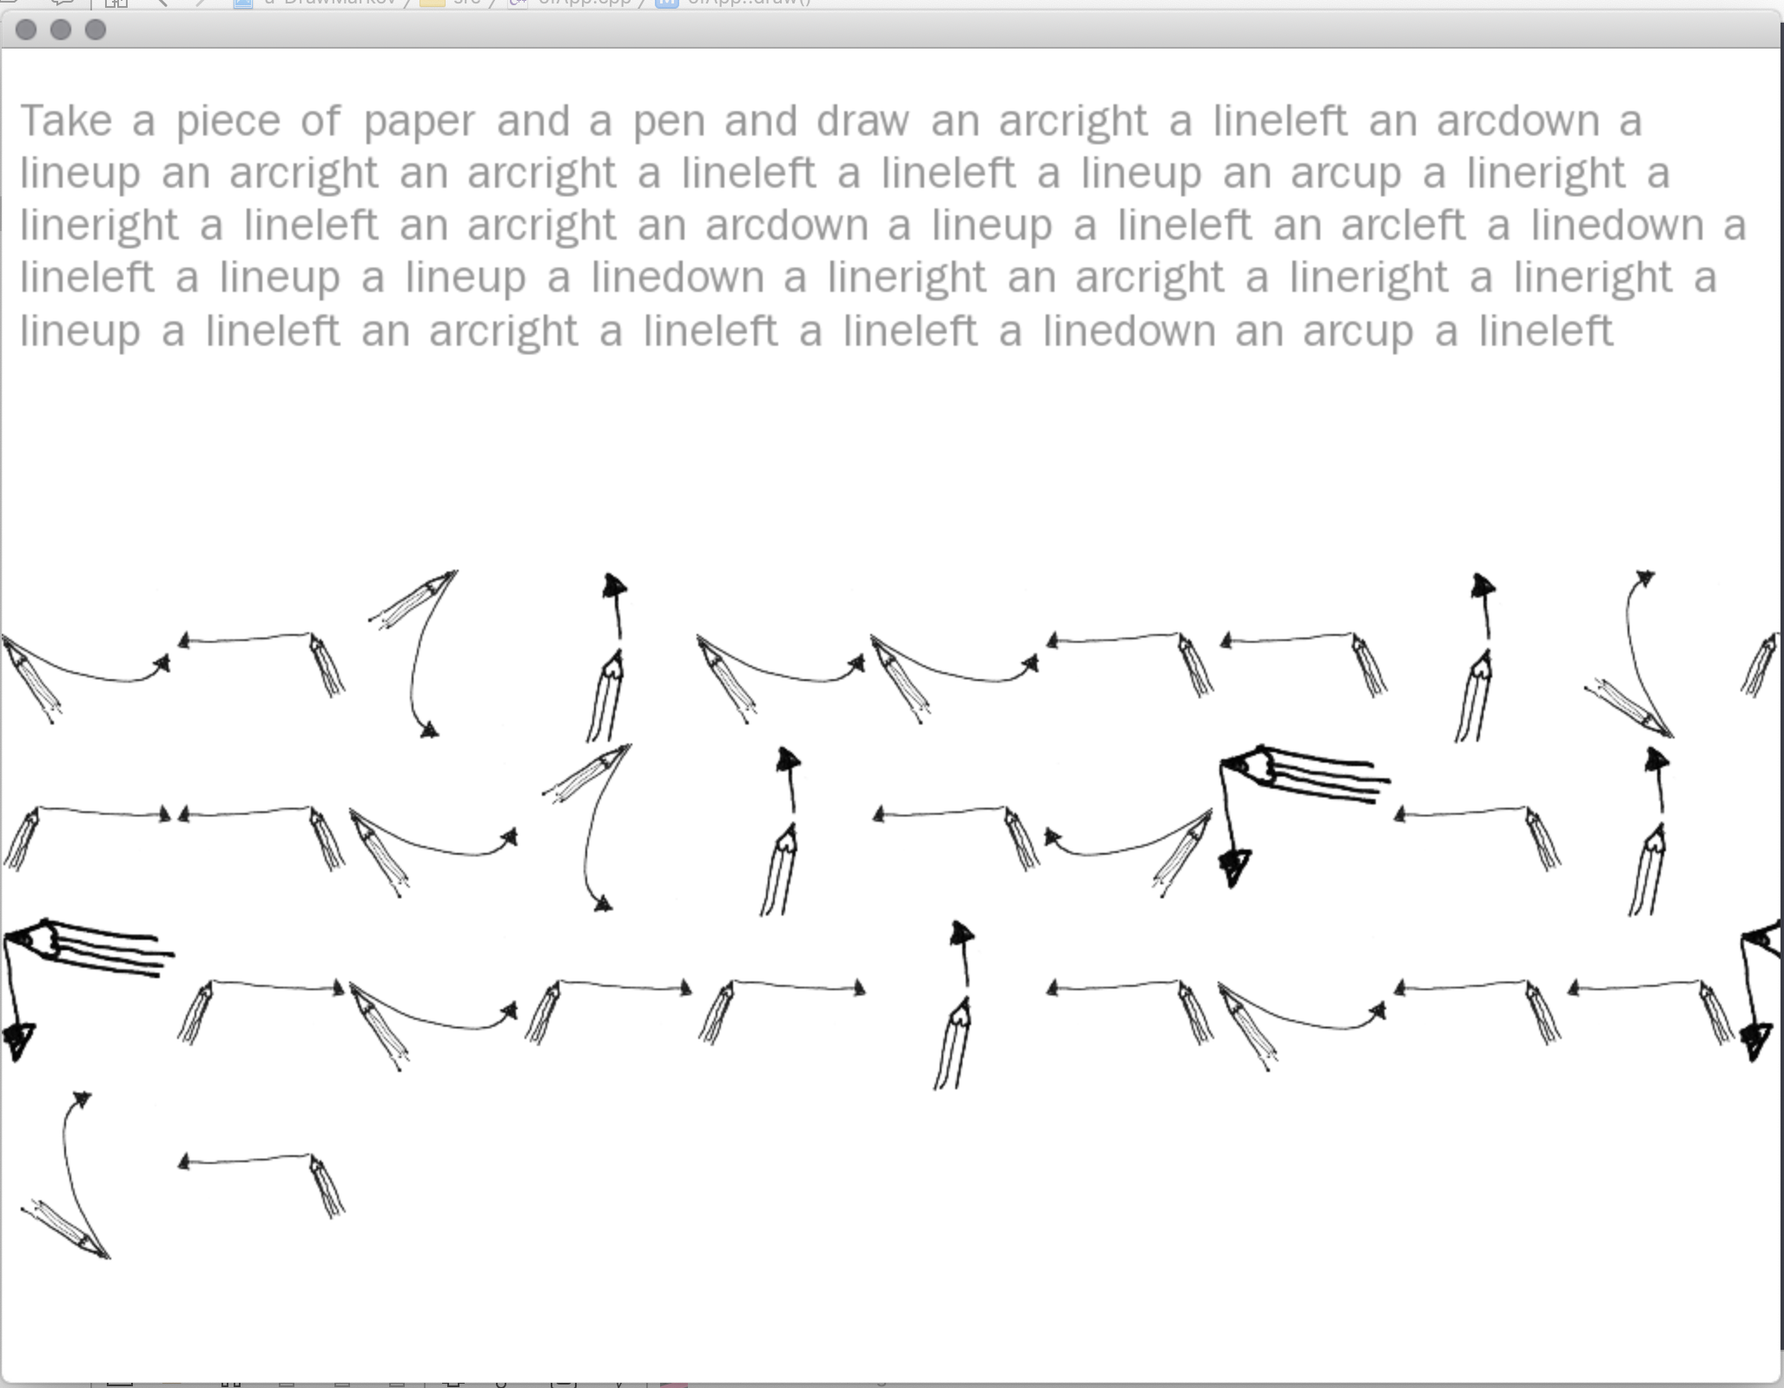
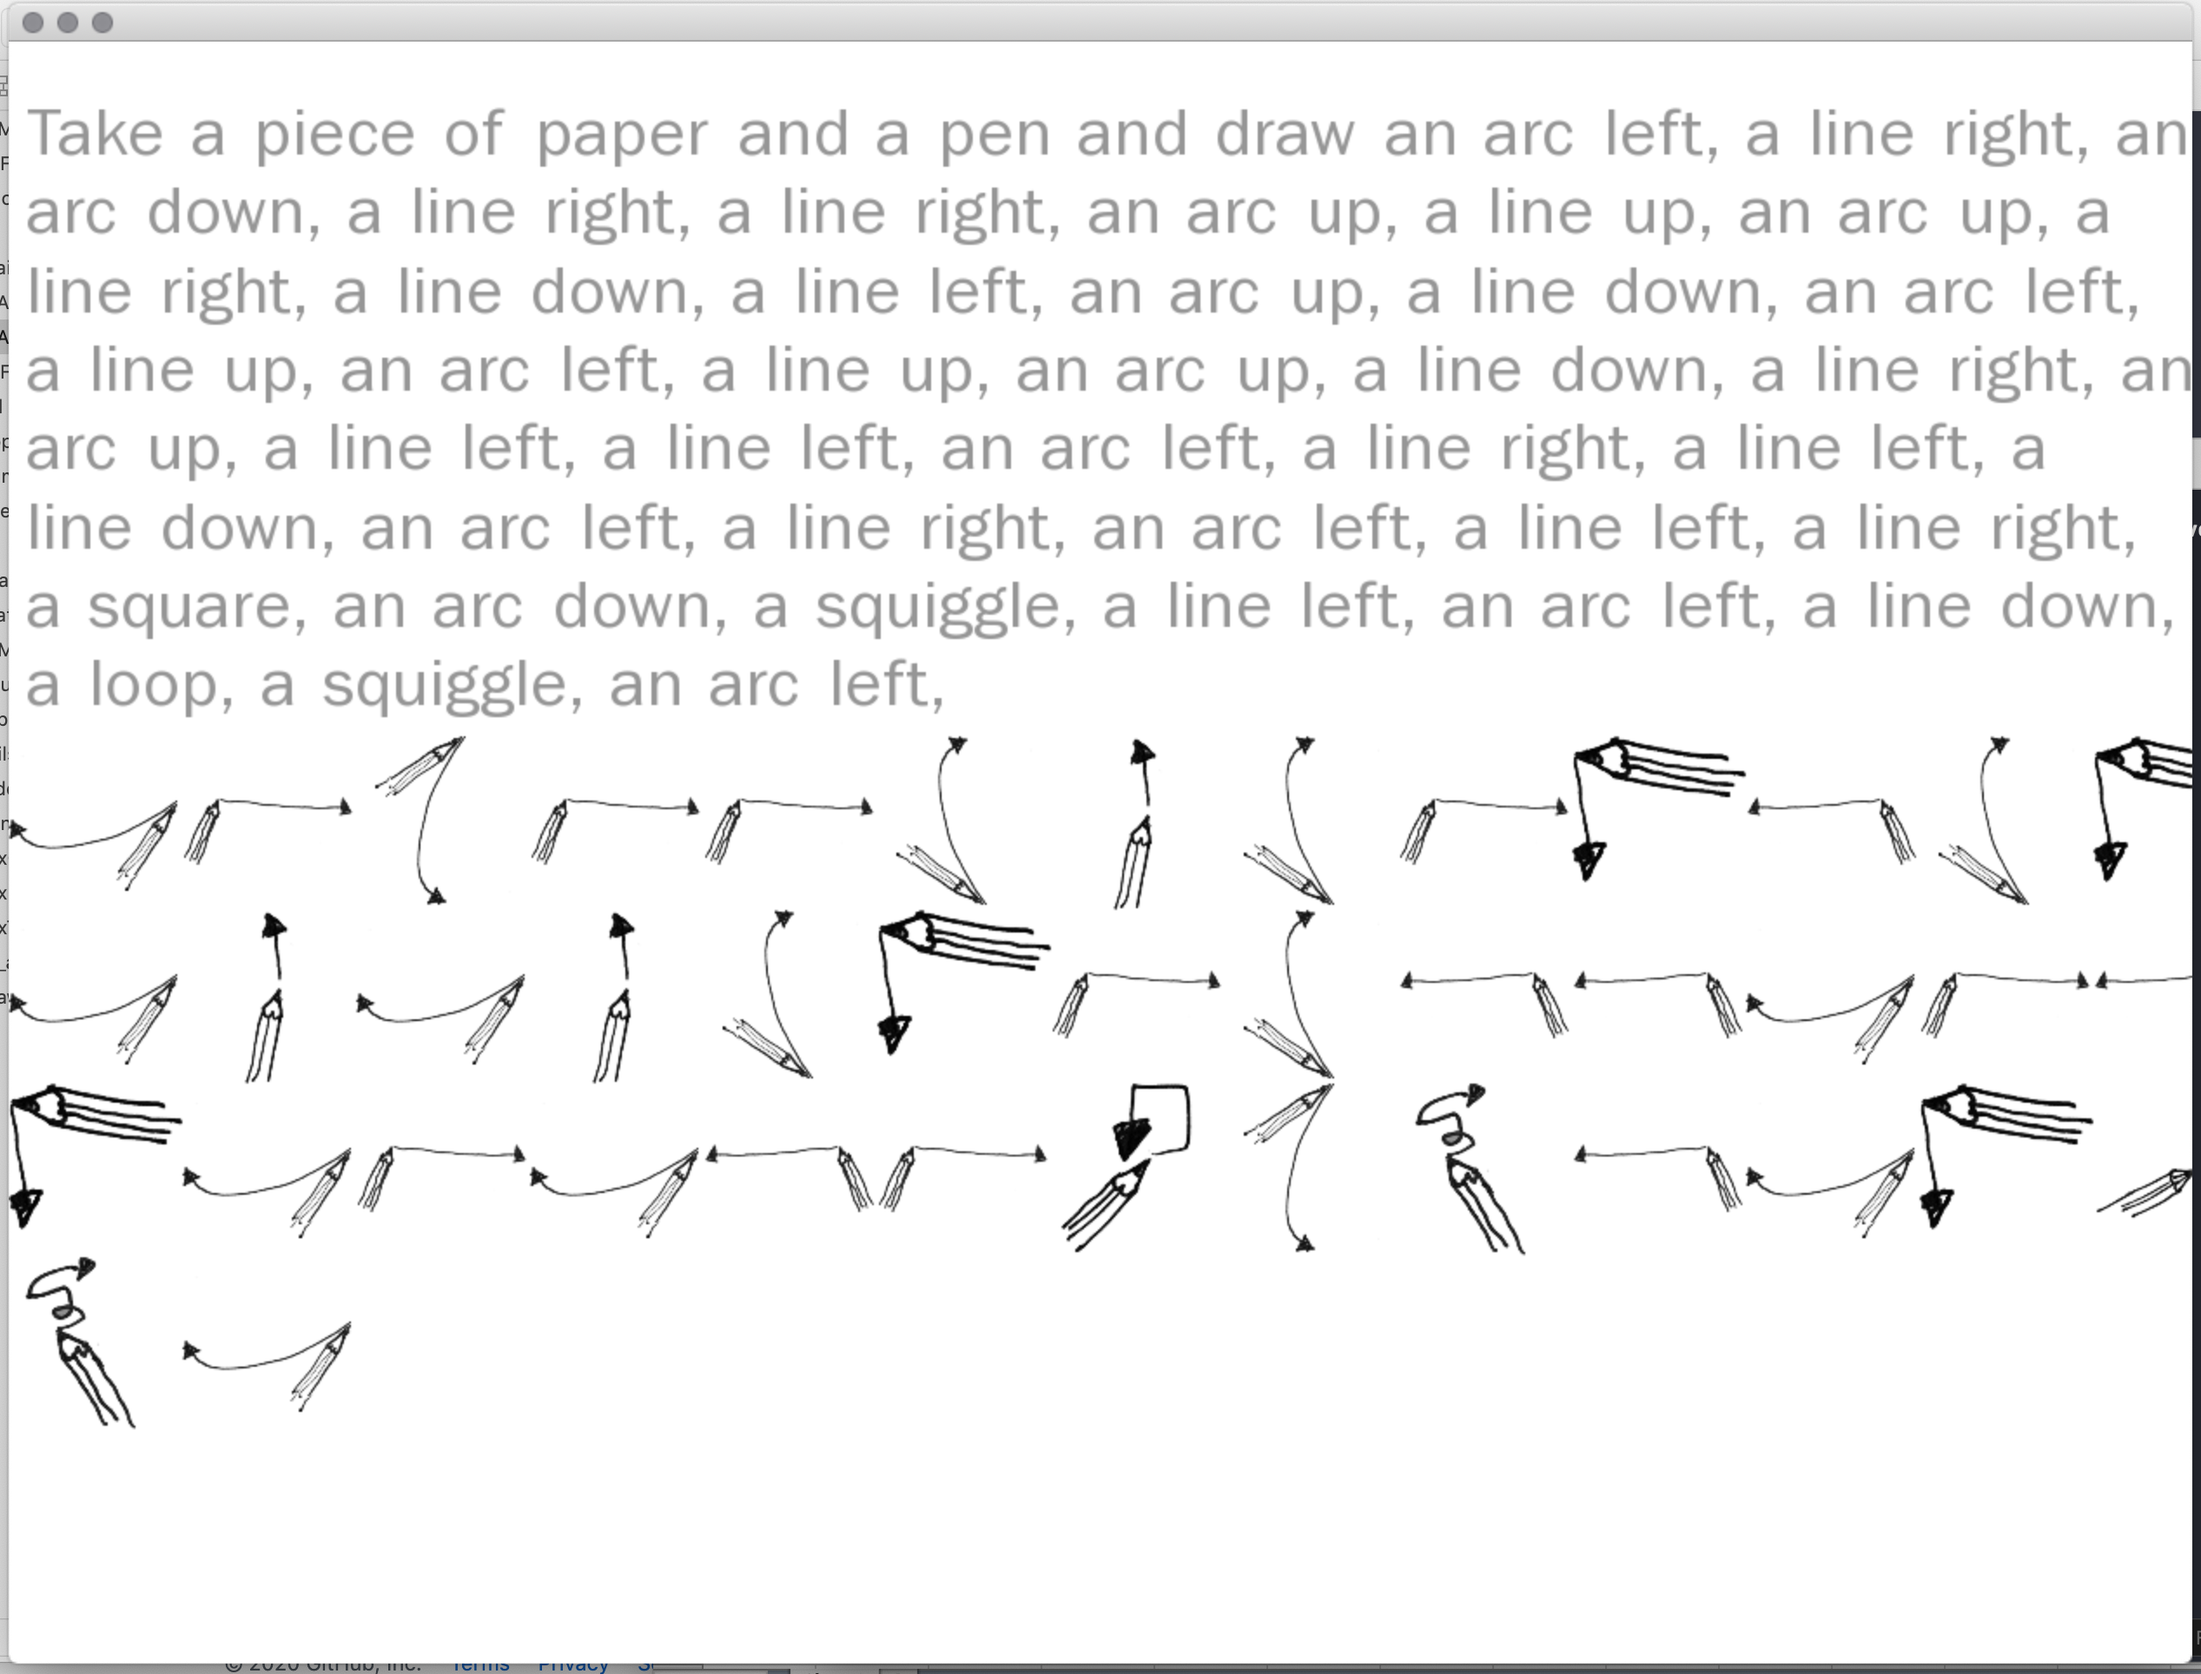
updates to include 12 x 12 matrix

diff --git a/src/ofApp.h b/src/ofApp.h
@@ -41,20 +41,38 @@ public:
             case 5:
                 markType = "an arc down,";
                 markIcon.load("images/arcdown.png");
-                
                 break;
                 
             case 6:
                 markType = "an arc left,";
                 markIcon.load("images/arcleft.png");
-                
                 break;
                 
             case 7:
                 markType = "an arc right,";
                 markIcon.load("images/arcright.png");
-                
                 break;
+                
+            case 8:
+                markType = "a circle,";
+                markIcon.load("images/circle.png");
+                break;
+                
+            case 9:
+                markType = "a square,";
+                markIcon.load("images/square.png");
+                break;
+                
+            case 10:
+                markType = "a loop,";
+                markIcon.load("images/loop.png");
+                break;
+                
+            case 11:
+                markType = "a squiggle,";
+                markIcon.load("images/squiggle.png");
+                break;
+                
                 
             default:
                 break;

diff --git a/src/ofApp.cpp b/src/ofApp.cpp
@@ -16,7 +16,7 @@ void ofApp::setup(){
     instructionText.init("frabk.ttf", 30);
     instructionText.wrapTextX(ofGetWidth());
     ofBackground(ofColor::white);
-    
+   
     reset();
 }
 
@@ -87,8 +87,8 @@ void ofApp::addDrawingStep(){
     markov.update();
     Mark newMark(markov.getState());
     marks.push_back(newMark);
-    
     string speaker = "Samantha";
+    
     string content = newMark.getMarkType() ;
     string cmd = "say " + content + " -v " + speaker;
     system(cmd.c_str());

diff --git a/README.md b/README.md
@@ -1,7 +1,12 @@
 # u-DrawMarkov
 markov chain drawing sketch in openFrameworks
 
-with 8 x 8 matrix for drawing lines and arcs
+with 12 x 12 matrix for drawing four orientations of lines and arcs plus squares, circles, loops and squiggles.
+
+with Mac osX speech output announcing each new drawing step.
+
+includes spreadsheet with probability matrix
+
 
 ©2020 Dan Buzzo
 github.com/danbz
@@ -18,6 +23,8 @@ http://buzzo.com
 * space: generate new drawing instruction from markov matrix
 * g: show / hide gui
 * f: toggle fullscreen
-* r: reset 
+* r: reset
 
 ![screenshot](u-DrawMarkov-Screenshot.png)
+
+![screenshot](screenshot-probability-matrix.png)
